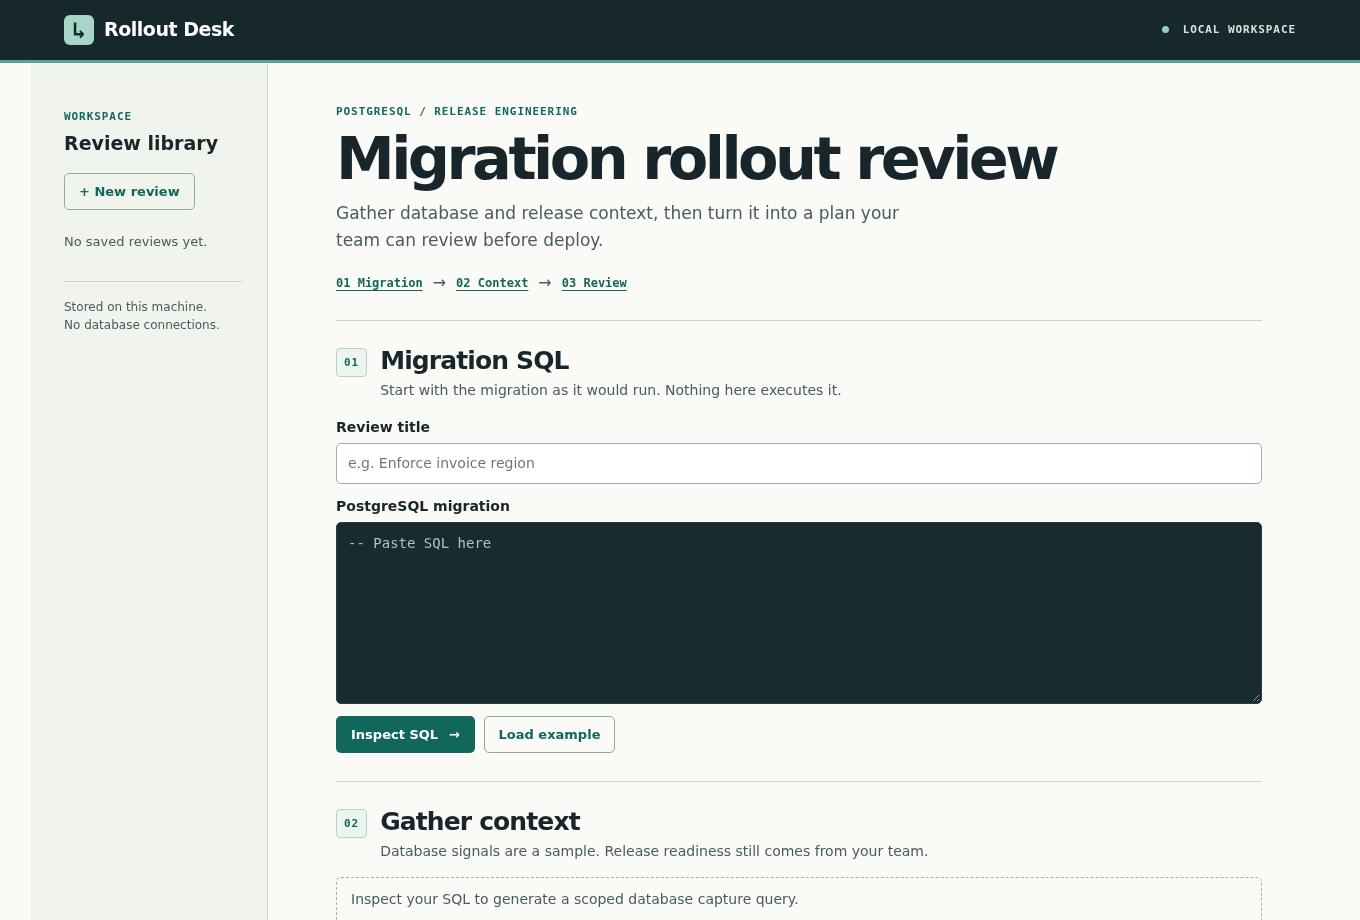
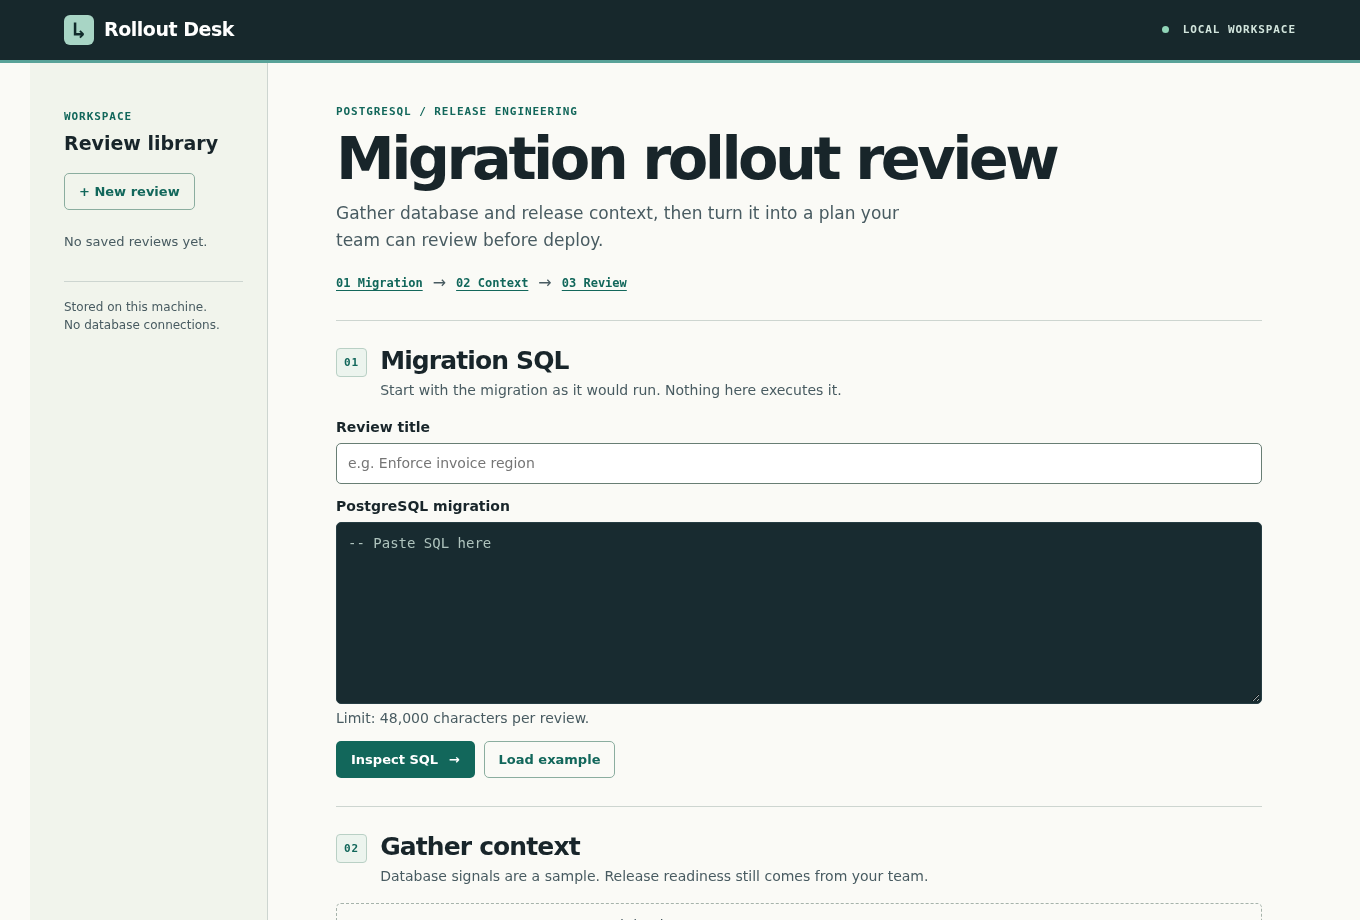
Document Rollout Desk mission completion

Changed region(s): [[0.2471, 0.8826, 0.6794, 1.0], [0.2471, 0.7609, 0.4632, 0.8522]]

diff --git a/docs/RELEASE_REPORT.md b/docs/RELEASE_REPORT.md
@@ -1,0 +1,68 @@
+# Rollout Desk · mission completion and release report
+
+Version **0.1.0** · product baseline [`b57b591`](https://github.com/Braventh/migration-rollout-review/commit/b57b591f14f317c84c519615488f4a5f507457cc) · **owner-directed, demand unproven**.
+
+The working MVP, release documentation, browser demo and test evidence are delivered. Research did not establish demand. The pre-implementation UX critique was a self-review, not the independent review called for by the brief; independent accessibility and first-time developer audits took place after implementation.
+
+## Mission checklist
+
+| Brief requirement | Status | Evidence or boundary |
+|---|---|---|
+| Initial owner interview and tool audit | Waived | The owner explicitly approved defaults and asked to skip both: developers/small teams, zero spend, local-first web app. The existing private Devin App was subsequently approved; no broader deployment, purchases or new accounts were authorized. |
+| 1 · Discover real problems; compile an opportunity database | Prior research, archive details unverified | [Research](RESEARCH.md) and [opportunity index](OPPORTUNITIES.md) link the prior inventories and source-backed studies. The inventory downloads returned HTTP 401 in this handoff, so the 15-entry minimum was not independently recounted. |
+| 2 · Weight, score and shortlist opportunities | Prior scoring, archive details unverified | The historical [scorecard and CSV](OPPORTUNITIES.md#prior-research-archive) are indexed; the locally available Round 2 report includes the actual weights and gates and reviews five first-round validation reports. The original scorecard download returned HTTP 401; the shortlist was not independently reconstructed here. |
+| 3 · Independently challenge the candidates | Completed as desk and synthetic validation; demand unproven | [DEV-03 and Round 2](RESEARCH.md) document strong comparator tests and independent counterchecks. There were no customer interviews, live customer pilots, or proof of willingness to pay. The owner explicitly overrode the DEV-03 hold for this MVP. |
+| 4 · Define the product and MVP | Done | [PRD](PRD.md), including user roles, scope, positioning, acceptance and an evidence-gated roadmap. |
+| 5 · Design the UX and independently review before building | Design done; prebuild independence not met | [UX](UX.md) records the design system, flow and states, plus the prebuild self-critique. Postbuild accessibility and first-use audits are independent, but do not satisfy the timing requirement. |
+| 6 · Define architecture and sequence work | Done | [Architecture](ARCHITECTURE.md), [decisions](DECISIONS.md), [milestones and dependencies](MASTER_PLAN.md) and [task board](TASKS.md). |
+| 7 · Build a working, persistent MVP | Done | [Source](https://github.com/Braventh/migration-rollout-review/tree/b57b591f14f317c84c519615488f4a5f507457cc), [local instructions](../README.md) and the [private demo](https://rollout-desk--bbcnjtf0.preview.devinapps.com). |
+| 8 · Test and fix | Done for MVP scope | [Test report](TEST_REPORT.md) covers unit, integration, browser end-to-end/UI, invalid inputs, security boundaries, performance probes and regressions. See its untested areas. |
+| 9 · Independently audit the product | Done | Five independent audits: security, SQL parsing, accessibility/layout, reliability/performance/docs, and first-time developer. [PR #2](https://github.com/Braventh/migration-rollout-review/pull/2) shipped fixes; [prioritized findings and limits](BUGS.md) document residual risks. |
+| 10 · Prepare release and handoff | Done for local and existing private scope | [README](../README.md), [release notes](CHANGELOG.md), versioned source, fresh screenshots, synthetic demo and this report. No new deployment or host/database changes were made in this handoff. |
+| Maintain all project records | Done | [Project status](PROJECT_STATUS.md), [master plan](MASTER_PLAN.md), [research](RESEARCH.md), [opportunities](OPPORTUNITIES.md), [decisions](DECISIONS.md), [PRD](PRD.md), [architecture](ARCHITECTURE.md), [tasks](TASKS.md), [test report](TEST_REPORT.md), [bugs](BUGS.md), and [changelog](CHANGELOG.md). |
+
+## Opportunity Discovery
+
+Prior research compared migration rollout review, test-suite evidence, required-check previews, SaaS seat reconciliation and Playwright evidence, then tested three different niches in Round 2. Those alternatives were rejected or deferred where a strong free workflow already covered the core job or the remaining feature had no verified buyer. In DEV-03, practitioner reports established mixed-version rollout pain; ten synthetic fixtures yielded nine decisions beyond lint and a *blank* checklist, but **zero** beyond a completed checklist with the same facts. The owner picked the idea anyway. The product therefore focuses on gathering scoped database facts and organizing the remaining human decisions, not outperforming existing linters or claiming commercial traction.
+
+## Product
+
+Rollout Desk is a worksheet for PostgreSQL migration authors and reviewers on small development teams. Paste SQL, inspect affected relations, optionally capture catalog statistics with read-only SQL in your own session, add rollout context, then review and edit suggested gates. You can save and reopen the plan, download Markdown for a PR, or try the whole workflow with clearly labeled synthetic evidence. Guidance is for human review, not deployment approval.
+
+## Development
+
+Node.js 24 native HTTP and SQLite keep setup local. The browser uses a static UI; the server uses a PostgreSQL WASM parser for syntax and rules. The app never executes a migration or connects to PostgreSQL. SQLite is initialized on startup; no separate migration tool or database setup is required for a fresh install. There are no runtime service integrations other than the existing private hosting proxy when hosted. Startup logs the local URL; review payloads are not logged. See [architecture](ARCHITECTURE.md) for API, storage, validation, error handling, and the trust boundary.
+
+## Testing
+
+On the release code: **33 unit/HTTP/SQLite tests**, **7 Chrome browser tests**, and **0 vulnerabilities reported by npm audit**. [Test report](TEST_REPORT.md) distinguishes this handoff's checks from earlier SQL audit replays, database tests and performance probes. [Bugs](BUGS.md) covers the fixes and remaining limitations.
+
+## Product Quality
+
+- **UX and accessibility:** The release screenshots were visually inspected for the three-step layout, query and snapshot context, visible warnings, and saved decision/export actions. Playwright checked 390px overflow, field associations, focus and keyboard-relevant semantics. A screen-reader trial is still open.
+- **Performance:** The independent reliability audit measured large reviews and a 1,002-review library locally. Limits and pagination bound normal calls. The spot measurements are not a production load test or SLA.
+- **Security:** Local loopback, origin checks, CSP, type/size validation, and read-only capture are deliberate boundaries. Hosted access is proxied and organization-shared, not per-user; no trusted caller-identity header has been verified.
+- **Reliability:** File-backed reopen and lock recovery are covered, as are competing edits and unsaved-navigation warnings. Database statistics remain estimates; production workload, standby behavior and long-running shared usage were not verified.
+
+## How to Run
+
+Put Node.js 24 or newer on PATH, then run `npm ci && npm start` and open **http://127.0.0.1:3000**. Choose **Load example**, then inspect, generate, save and download Markdown. See the [step-by-step user guide](../README.md#try-a-review).
+
+| Environment variable | Default / purpose |
+|---|---|
+| `PORT` | `3000`; loopback listening port. |
+| `REVIEW_DB` | `data/reviews.sqlite` relative to the working directory; persistent file. Tests can use `:memory:`. |
+| `REVIEW_WORKSPACE` | Local by default; `org` changes the disclosure for the already authorized private hosted app. It does not enable authentication. |
+
+To preserve existing reviews, stop the local process before copying the SQLite file. Never expose the loopback server directly to a network.
+
+## Deliverables
+
+- [Versioned source](https://github.com/Braventh/migration-rollout-review/tree/b57b591f14f317c84c519615488f4a5f507457cc) and [test suite](../test/).
+- [Installation and user guide](../README.md), the project records above, and [release notes](CHANGELOG.md).
+- Screenshots: [migration](screenshots/01-migration.png), [capture and context](screenshots/02-context.png), [saved review and export](screenshots/03-saved-review.png).
+- [Existing private Devin App](https://rollout-desk--bbcnjtf0.preview.devinapps.com) for authorized organization members, plus the tested local **Load example** demo. The existing host was not modified or reverified in this handoff.
+
+## Next Steps
+
+Run a paired pilot with redacted real migrations, comparing total author/reviewer time, decisions missed, unsupported safety claims, and repeat use against a completed checklist plus free tools. The largest product risk is that gathering human context still costs more than the worksheet saves. Only after repeat benefit is observed, prioritize requested additions such as signoff or private workspaces, and evaluate privacy, support and operational requirements before any commercial launch. No pilot participants, production access, public deployment beyond the existing private App, spend, or new accounts were assumed. Public deployment, paid services and new accounts require the owner's approval.

diff --git a/docs/TEST_REPORT.md b/docs/TEST_REPORT.md
@@ -1,18 +1,21 @@
 # Test report · v0.1.0
 
+The final handoff reran the unit/integration, Chrome and dependency checks on the product code from `b57b591` in an isolated worktree with an in-memory browser-test database. Earlier audit probes are identified below.
+
 | Check | Observed outcome |
 |---|---|
 | `npm test` | 33 passed: 24 rule/unit and 9 HTTP/SQLite tests. Regressions include stale and missing revisions, revision-bound exports, legacy decisions, SQLite locks, impossible dates and invalid JSON field types. |
-| `CHROMIUM_EXECUTABLE="$(command -v google-chrome)" npm run test:e2e` | 7 passed: core flow, synthetic evidence after reopen and export, scoped text and saved titles at 390px, field error focus and ARIA, distinct decision names, reload warning, total-byte budget, pagination and unchanged-SQL notes. |
+| `CHROMIUM_EXECUTABLE="$(command -v google-chrome)" CAPTURE_SCREENSHOTS=1 npm run test:e2e` | 7 passed (4.0s): core flow, synthetic evidence after reopen and export, scoped text and saved titles at 390px, field error focus and ARIA, distinct decision names, reload warning, total-byte budget, pagination and unchanged-SQL notes. |
 | SQL audit replay | Replayed 53 complete SQL inputs through the app parser, not a live database. One original parse-rejection entry omitted its SQL. Unit assertions cover search-path scope, destructive statements, procedural review, partitioned indexes, concurrent transaction restrictions, enum reuse, CTE deletes and required-column defaults. |
-| Form field contrast | White against the new boundary color: 4.35:1. Mobile overflow and focus were checked with Playwright; audit-round visuals were not manually inspected. |
+| Form field contrast and visual verification | White against the field boundary: 4.35:1 (audit calculation). Inspected fresh desktop captures of the migration worksheet, capture/JSON context and saved decision/export. Mobile overflow and focus were checked in Playwright. |
 | DEV-03 evidence bundle replay | All nine supplied SQL fixtures routed to their expected category; fixture 10 produced only a control. No fixture migration was executed. |
 | Isolated PostgreSQL 17.12 capture | Generated query ran on a local throwaway DB containing a two-row `billing.invoices` with one index. Pasted output normalized to primary, 24576 bytes, two estimated rows, one index, zero invalid and no standby age. Not tested on a standby or production. |
 | `npm audit` | Found 0 vulnerabilities according to the registry at check time. |
 | Local bounded-input spot timing | 47,004 characters, 100 findings, 39.8 ms cold parser wall time on this box. Not a performance SLA or concurrent load test. |
+| Independent reliability/performance audit (pre-fix) | At 48,000 characters: ~10.5 ms inspect and 13.2 ms draft median across 20 sequential loopback calls; at 1,002 stored reviews: ~1.0 ms list median, ~1.1 ms p95. The audit also probed interrupted writes, restart recovery, request limits and large-review memory. Historical spot measurements, not post-fix benchmarks or a production SLA. |
 
 ### Audits
 
 Checked exact-host and origin restrictions, cross-site headers, request and statement limits, JSON type/shape, mismatched snapshot scope, editor and library rendering, and inert Markdown export. Checked SQL uses read-only transaction, timeouts, fixed catalog path and encoded target names; no migration path executes SQL. Probed misleading controls, mixed transaction/index evidence, and unknown/stale operational inputs; see [BUGS](BUGS.md). Visually inspected [01 migration](screenshots/01-migration.png), [02 context](screenshots/02-context.png) and [03 saved review](screenshots/03-saved-review.png).
 
-Independent audits added parser, security, accessibility, reliability and first-time developer findings; see [BUGS](BUGS.md). Devin Apps documentation establishes sign-in and organization sharing, not a trustworthy forwarded caller identity. An authenticated proxy request and the updated hosted release were not verified in this round. No screen-reader check, real-team workflow, PostgreSQL standby, alternate browser/OS or sustained load test was run. No released-market demand claim.
+Five independent audits covered SQL parsing, security, accessibility/layout, reliability/performance/docs and first-time developer experience. Fixes were merged in [PR #2](https://github.com/Braventh/migration-rollout-review/pull/2); see [BUGS](BUGS.md). Devin Apps documentation establishes sign-in and organization sharing, not a trustworthy forwarded caller identity. The existing private host and its database were not changed or reverified in this handoff. No screen-reader check, real-team workflow, PostgreSQL standby, alternate browser/OS or sustained load test was run. No released-market demand claim.

diff --git a/docs/OPPORTUNITIES.md b/docs/OPPORTUNITIES.md
@@ -1,3 +1,9 @@
 # Opportunities
 
 **Owner-directed, demand unproven.** The owner selected [DEV-03](https://app.devin.ai/attachments/4dba5f36-94ee-406c-bba6-575255032468/VALIDATION-DEV-03.md) despite the hold. See [previous opportunity inventories and comparisons](https://app.devin.ai/attachments/9422bec8-972a-47fd-80b5-8506a75d3a10/ROUND-2-OPPORTUNITY-VALIDATION.md). Alternatives include test-suite evidence, required-check previews and seat reconciliation; their strongest free comparators invalidated standalone launch cases. This is not a new scoring or validation round.
+
+## Prior research archive
+
+- Discovery inventories: [developer workflows](https://app.devin.ai/attachments/2ff30947-eae8-4b2a-bcf9-676ea21fb3fa/OPPORTUNITIES-DEVELOPERS.md), [AI workflows](https://app.devin.ai/attachments/235e2ac9-10fc-40f4-95c5-2728ce403131/OPPORTUNITIES.md), and [small-team SaaS](https://app.devin.ai/attachments/2971c4f5-475f-4d8c-948e-37ba3b4b2483/OPPORTUNITIES_smallteam_saas.md).
+- Scoring: [weighted model and scorecard](https://app.devin.ai/attachments/e74cffee-ceab-4cf9-8a69-dd1dfd059d1e/SCORECARD.md), [CSV](https://app.devin.ai/attachments/11895298-6b08-4a99-8b67-5193a9aa8c77/SCORECARD.csv). Round 2 documents the shared 13 weighted criteria and decision gates, links five first-round validations, and separately ranks three new leads; it is not the original shortlist.
+- Validation: public desk research and synthetic comparisons, not interviews or customer workflow measurements. No evidence of repeat use or willingness to pay for the exact product.

diff --git a/docs/UX.md b/docs/UX.md
@@ -7,4 +7,4 @@ A single review worksheet, not a dashboard. The notebook sidebar is only for loc
 3. **Review**: show pattern order, required proof, pause condition, and editable team decision. Save in explicit action; export only persisted decisions. Show inline request errors and status announcements. Retain typed input on errors.
 4. **Responsive**: form and sidebar stack, query scrolls inside its block, actions wrap. Visible focus, explicit labels, semantic controls, status and error live regions.
 
-Prebuild critique against the brief: snapshot copying isn't the product by itself; it has to be scoped from pasted SQL and visibly influence the review. Don't imply missing actor information came from Postgres. Don't use color-only severity or block review if a snapshot can't be collected. This is a self-review, not an independent UX review.
+Prebuild critique against the brief: snapshot copying isn't the product by itself; it has to be scoped from pasted SQL and visibly influence the review. Don't imply missing actor information came from Postgres. Don't use color-only severity or block review if a snapshot can't be collected. This was a self-review, not an independent UX review. After implementation, independent accessibility/layout and first-time developer audits led to [changes in PR #2](https://github.com/Braventh/migration-rollout-review/pull/2). See the [release screenshots](RELEASE_REPORT.md#deliverables) for the resulting local workflow.

diff --git a/docs/MASTER_PLAN.md b/docs/MASTER_PLAN.md
@@ -4,4 +4,6 @@
 2. Architecture: establish parser output, snapshot schema, and persisted draft/export contracts.
 3. Build: metadata and rules → HTTP/storage and worksheet → example and docs.
 4. QA: parser/fixture, realistic HTTP/DB, Playwright, and hostile input self-audit; fix critical/high issues.
-5. Release: run instructions, evidence screenshots, project records, feature-branch commit. Separate owner-approved GitHub repo/PR and no public deployment.
+5. Release: run instructions, evidence screenshots, project records and final report. Publish to the approved GitHub repository and existing private Devin App only.
+
+Planning dependencies: product acceptance drives the worksheet and architecture, which can be designed in parallel. The parser and its unit fixtures can proceed alongside worksheet layout once the API contracts are fixed; persistence and browser testing depend on an integrated server/UI. Independent audit tracks can run in parallel against one pinned build. Release waits for critical/high fixes, regression checks and a reviewed handoff. Keep parallel implementation changes in separate worktrees and avoid overlapping edits to shared files.

diff --git a/docs/PROJECT_STATUS.md b/docs/PROJECT_STATUS.md
@@ -1,3 +1,5 @@
 # Project status
 
 **Owner-directed, demand unproven.** Rollout Desk 0.1.0: runnable worksheet, scoped Postgres snapshot import, rollout gates, SQLite reviews, Markdown export and synthetic example. Source: [Braventh/migration-rollout-review](https://github.com/Braventh/migration-rollout-review). A private Devin App is the approved free hosting option; its library is shared with organization members who can open it. See [release notes](CHANGELOG.md), [test evidence](TEST_REPORT.md) and [next validation step](PRD.md#prd--rollout-desk).
+
+The [mission completion report](RELEASE_REPORT.md) indexes the delivered product and records which historical requirements cannot be independently verified or were not met. The next product milestone is a real-team comparison with a completed checklist and existing tools, not a public launch.

diff --git a/docs/TASKS.md b/docs/TASKS.md
@@ -8,4 +8,6 @@
 - [x] Self-audit: unsupported SQL, stale/inconsistent snapshots, hostile text and origins, and bounded inputs.
 - [x] Local release instructions, changelog and limitations.
 - [x] Publish source to the approved GitHub repository.
+- [x] Run five independent audits and merge release fixes in [PR #2](https://github.com/Braventh/migration-rollout-review/pull/2).
+- [x] Verify the release candidate locally, refresh screenshots, and write the [mission completion report](RELEASE_REPORT.md).
 - [ ] Run a paired review pilot against the completed checklist plus existing tools.

diff --git a/docs/CHANGELOG.md b/docs/CHANGELOG.md
@@ -1,6 +1,8 @@
 # Changelog
 
-## Audit follow-up (pending hosted rollout)
+## 0.1.0 · Audit follow-up
+
+Merged in [PR #2](https://github.com/Braventh/migration-rollout-review/pull/2). The [mission handoff](RELEASE_REPORT.md) records the updated evidence and limitations.
 
 - Enforce save and export revisions, strict snapshot calendar and JSON field validation, and actionable SQLite contention errors.
 - Improve capture under explicit search paths, guard destructive SQL, flag opaque bodies, and distinguish transaction, partition and required-column risks.

diff --git a/README.md b/README.md
@@ -36,3 +36,4 @@ Set `CHROMIUM_EXECUTABLE` to use an existing compatible Chromium/Chrome binary. 
 - [Capture query and context](docs/screenshots/02-context.png)
 - [Saved review and export](docs/screenshots/03-saved-review.png)
 - [Product](docs/PRD.md) · [Design](docs/UX.md) · [Architecture](docs/ARCHITECTURE.md) · [Test results and limits](docs/TEST_REPORT.md)
+- [Mission completion and release report](docs/RELEASE_REPORT.md)
